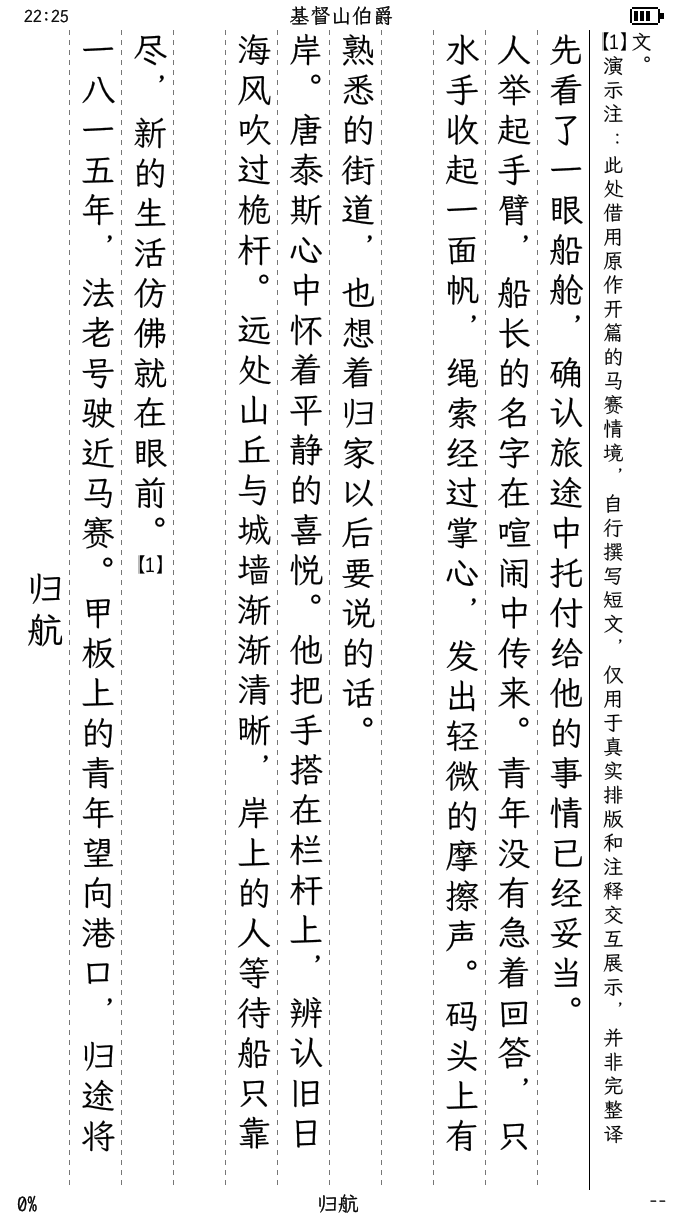
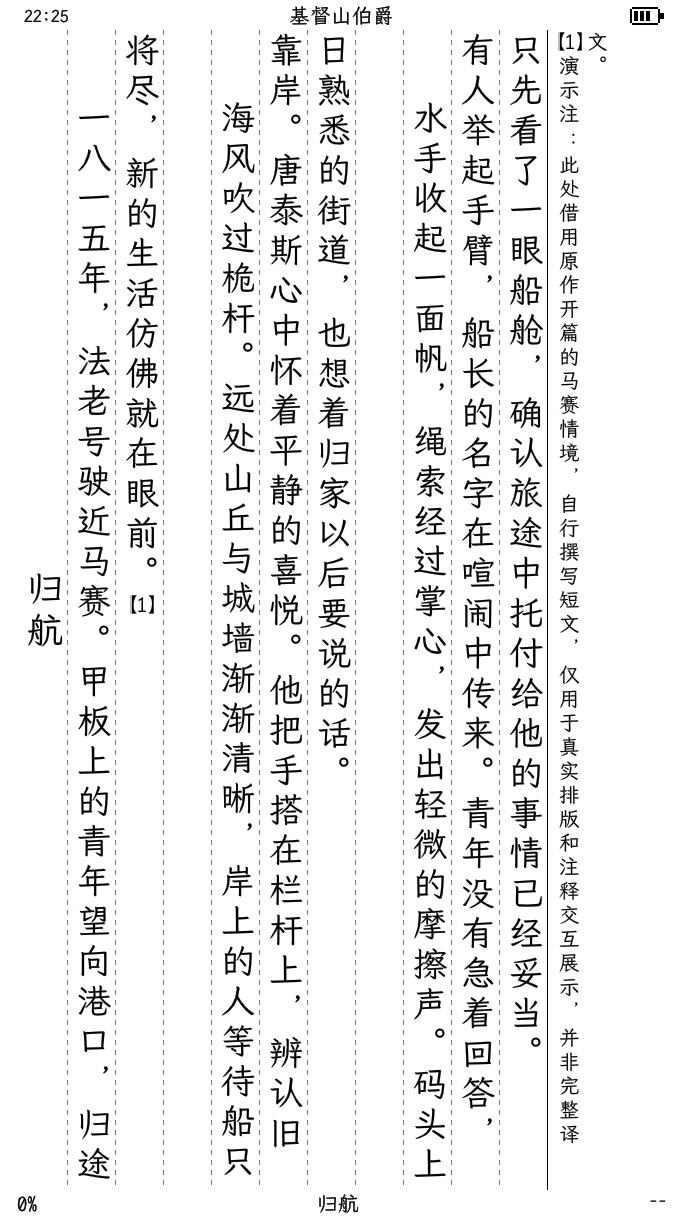
Prepare two-character indented native reading previews at supported minimum spacing

diff --git a/runtime/runtime.js b/runtime/runtime.js
@@ -124,7 +124,7 @@ var Module;
    print:log,printErr:log,onAbort:error=>failure(Error('真实程序终止：'+error),undefined,true),onRuntimeInitialized:()=>{
     try{
      Module.FS.mkdirTree('/run');let settings=new TextDecoder().decode(Module.FS.readFile('/demo-settings.ini'));const values=Object.fromEntries(settings.trim().split('\n').map(line=>{const at=line.indexOf('=');return [line.slice(0,at),line.slice(at+1)];}));
-     const style=values.rstyle.split(',');style[18]=state.config.night;values.rstyle=style.join(',');const flow={horizontal:0,ltr:1,rtl:2}[state.config.reading];values.reader_view=`2,0,3,${flow},1,1,24`;values.lockface2=`2,1,${{soviet:0,chan:1,bauhaus:2,cat:0}[state.config.theme]},7,7`;if(state.config.theme==='cat')values.lockface4=[...Module.FS.readFile('/bootstrap/lock-cat.bin')].map(v=>v.toString(16).padStart(2,'0')).join('');else delete values.lockface4;
+     const style=values.rstyle.split(',');style[1]='120';style[2]=String(Number(style[0])*2);style[18]=state.config.night;values.rstyle=style.join(',');const flow={horizontal:0,ltr:1,rtl:2}[state.config.reading];values.reader_view=`2,0,3,${flow},1,1,24`;values.lockface2=`2,1,${{soviet:0,chan:1,bauhaus:2,cat:0}[state.config.theme]},7,7`;if(state.config.theme==='cat')values.lockface4=[...Module.FS.readFile('/bootstrap/lock-cat.bin')].map(v=>v.toString(16).padStart(2,'0')).join('');else delete values.lockface4;
      Module.FS.writeFile('/run/settings.ini',Object.entries(values).map(([key,value])=>key+'='+value).join('\n')+'\n');Module.FS.writeFile('/run/nvs.bin',new Uint8Array(0));Module.FS.writeFile('/sdcard/paperspace/settings/home/current.bin',Module.FS.readFile('/bootstrap/'+(state.config.layout==='alternate'?'alternate':state.config.theme)+'.bin'));state.initialized=true;
[1 lines of base64/hex data omitted]
     }catch(error){failure(error,undefined,true);throw error;}
